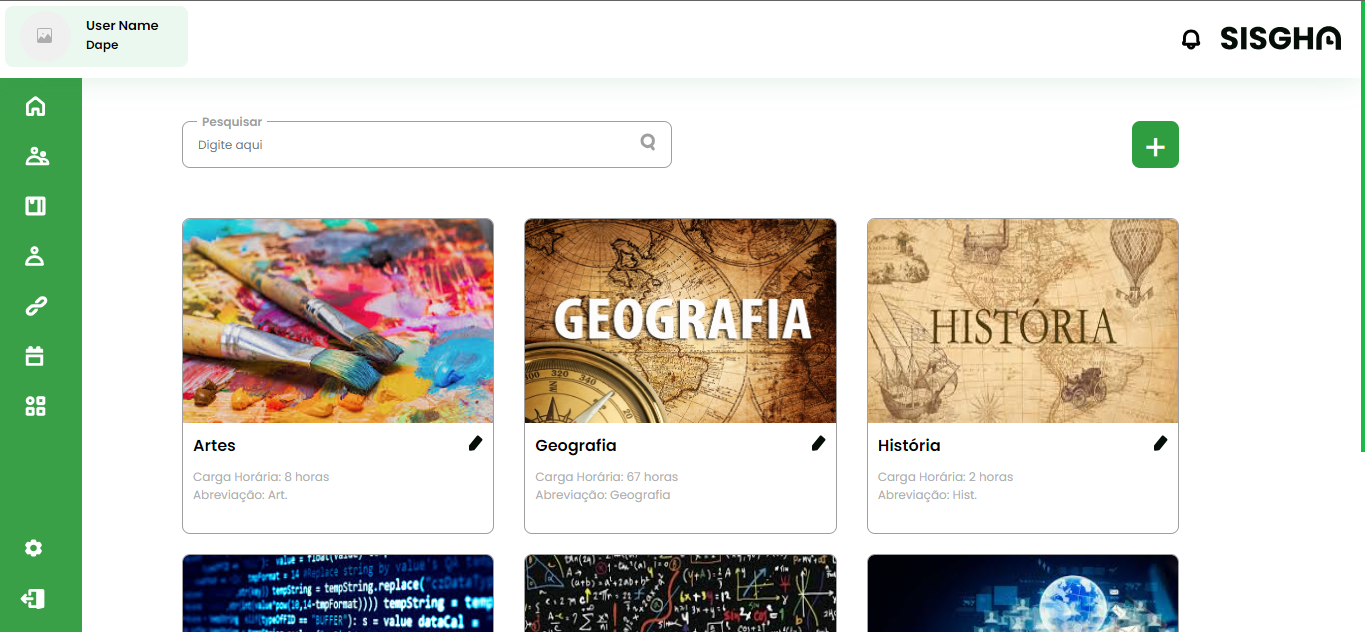
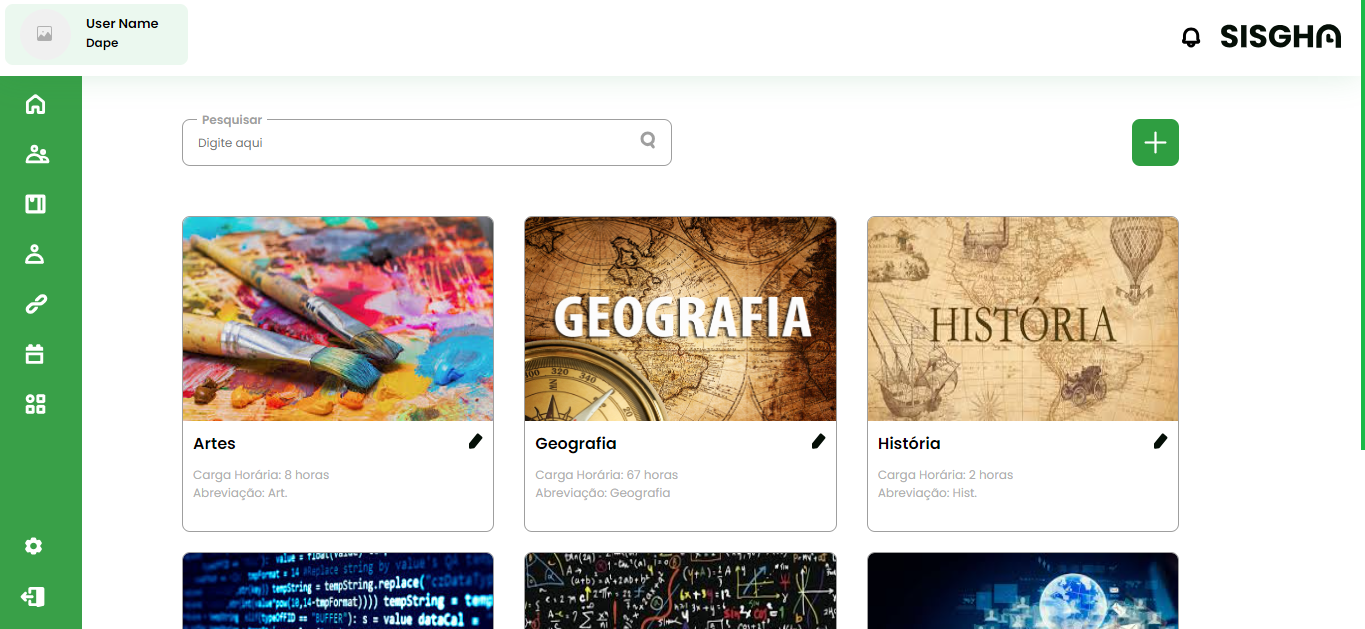
update

diff --git a/style.css b/style.css
@@ -317,12 +317,16 @@ main {
   width: 47px;
   height: 47px;
   border-radius: 8px;
-  color: #fff;
   background-color: #2f9e41;
-  font-size: 35px;
   border: none;
   margin-bottom: 10px;
   cursor: pointer;
+}
+#adicionar img{
+  filter: brightness(0) saturate(100%) invert(100%) sepia(0%) saturate(2000%) hue-rotate(90deg) brightness(100%);
+  height: 35px;
+  width: 35px;
+  margin-top: 5px;
 }
 
 .disciplinas {
@@ -380,6 +384,7 @@ main {
 
 ::-webkit-scrollbar-thumb {
   background-color: #1bba47;
+  border-radius: 10px;
 }
 
 @keyframes modalIn {

diff --git a/index.html b/index.html
@@ -116,7 +116,10 @@
         <!--Caixa de pesquisa final-->
 
         <!--Botão de adicionar começo-->
-        <button id="adicionar">+</button>
+        <button id="adicionar">
+          <img src="/assets/outros/4115237-add-plus_114047.svg" alt="adicionar">
+        </button>
+        <!--Botão de adicionar final-->
 
         <!--Modal começo-->
         <dialog>
